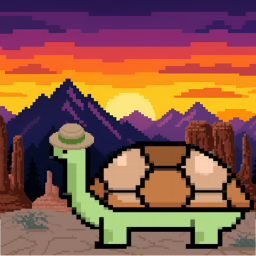
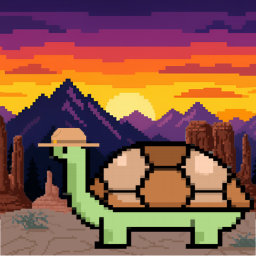
feat: add new achievement images and update related tests

Changed region(s): [[0.1562, 0.4688, 0.4062, 0.5938]]

diff --git a/wanderlog/index.html b/wanderlog/index.html
@@ -4449,19 +4449,35 @@
     }
 
     const ACHIEVEMENT_IMAGES = {
+      'Almost There!': 'almost-there.png',
+      'Anomaly Seeker': 'anomaly-seeker.png',
+      'Beyond the Horizon': 'beyond-the-horizon.png',
       'Chasing Waterfalls': 'chasing-waterfalls.png',
+      'Completionist Legend': 'completionist-legend-.png',
+      'Country Roads, Take Me Home': 'country-roads.png',
       'Earth Sandwich': 'earth-sandwhich.png',
+      'Fast Travel': 'fast-travel.png',
+      'Fifty-Nifty': 'fifty-nifty.png',
       'First Steps': 'first-steps.png',
+      'Focal Length': 'focal-length.png',
+      'Globetrotter': 'globetrotter.png',
       'Grand Voyager': 'grand-voyager.png',
       'Junior Ecologist': 'junior-ecologist.png',
+      'Local Lore': 'local-lore.png',
+      'Master Ranger': 'master-ranger.png',
       'Manifest Destiny': 'manifest-destiny.png',
+      'Pole to Pole': 'pole-to-pole.png',
       'Rocky Mountain High': 'rocky-mountain-high.png',
+      'Semi-Centennial': 'semi-centennial.png',
       'Southern Cross': 'southern-cross.png',
+      'Statehopper': 'statehopper.png',
+      'Terra Incognita': 'terra-incognita.png',
       'The Mariner': 'the-mariner.png',
       'The Overlander': 'the-overlander.png',
       'Thin Air': 'thin-air.png',
       'Touch Grass': 'touch-grass.png',
       'Trailblazer': 'trailblazer.png',
+      'Under Pressure': 'under-pressure.png',
       'Whisper in the Woods': 'whisper-in-the-woods.png',
       'Zero Meridian': 'zero-meridian.png'
     };
